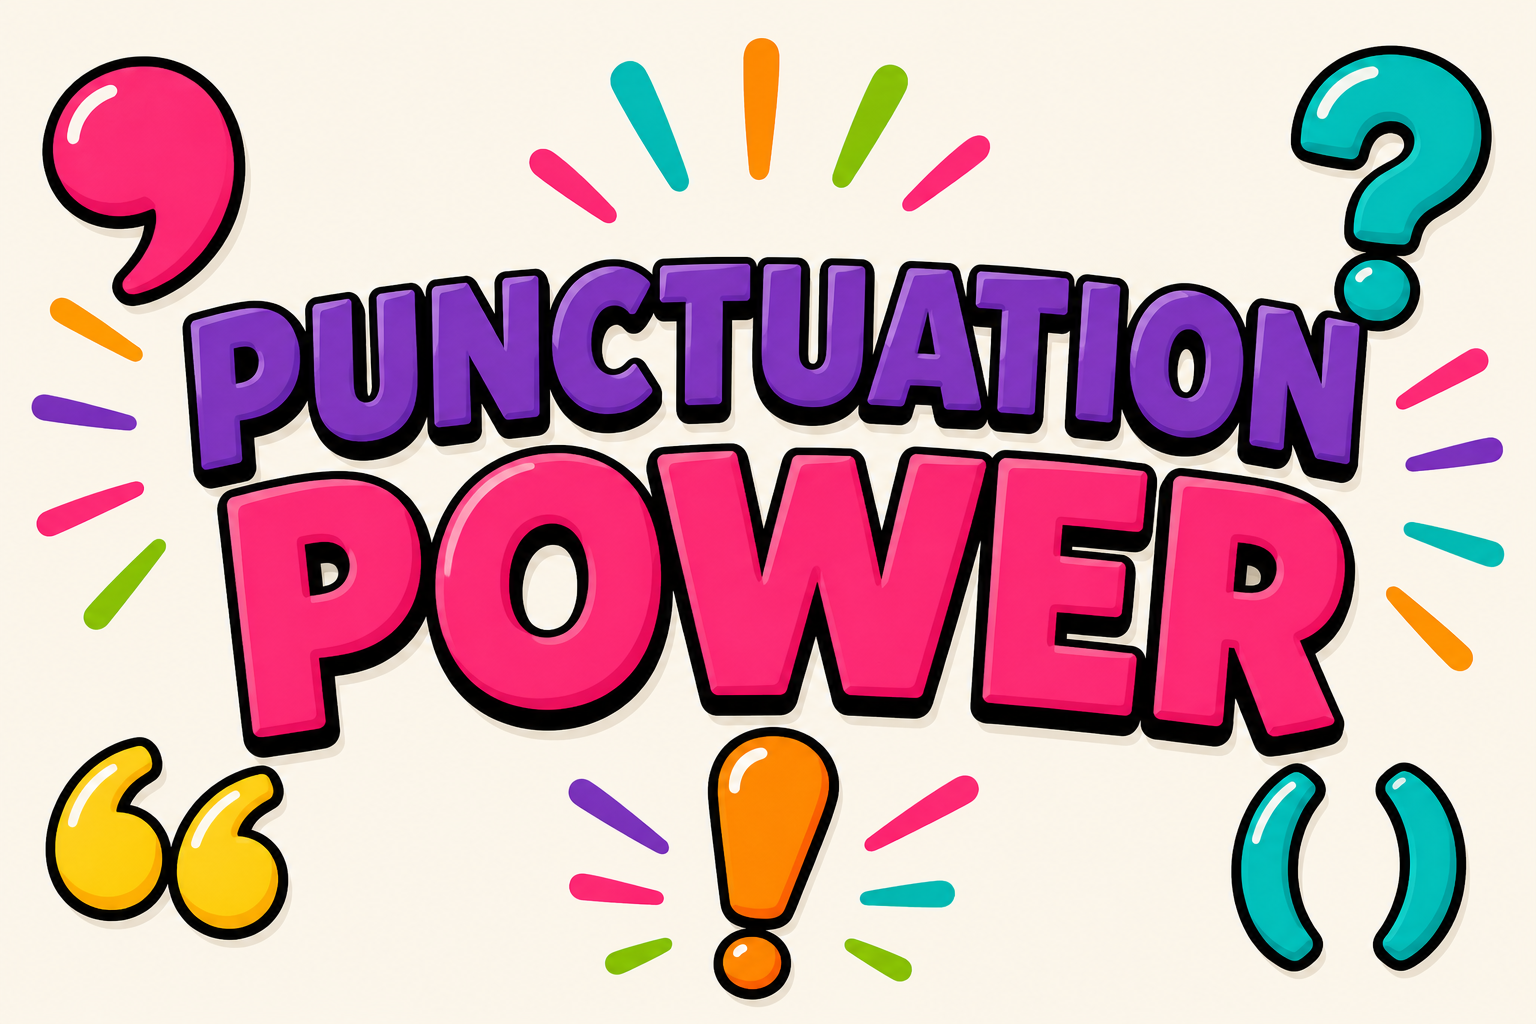
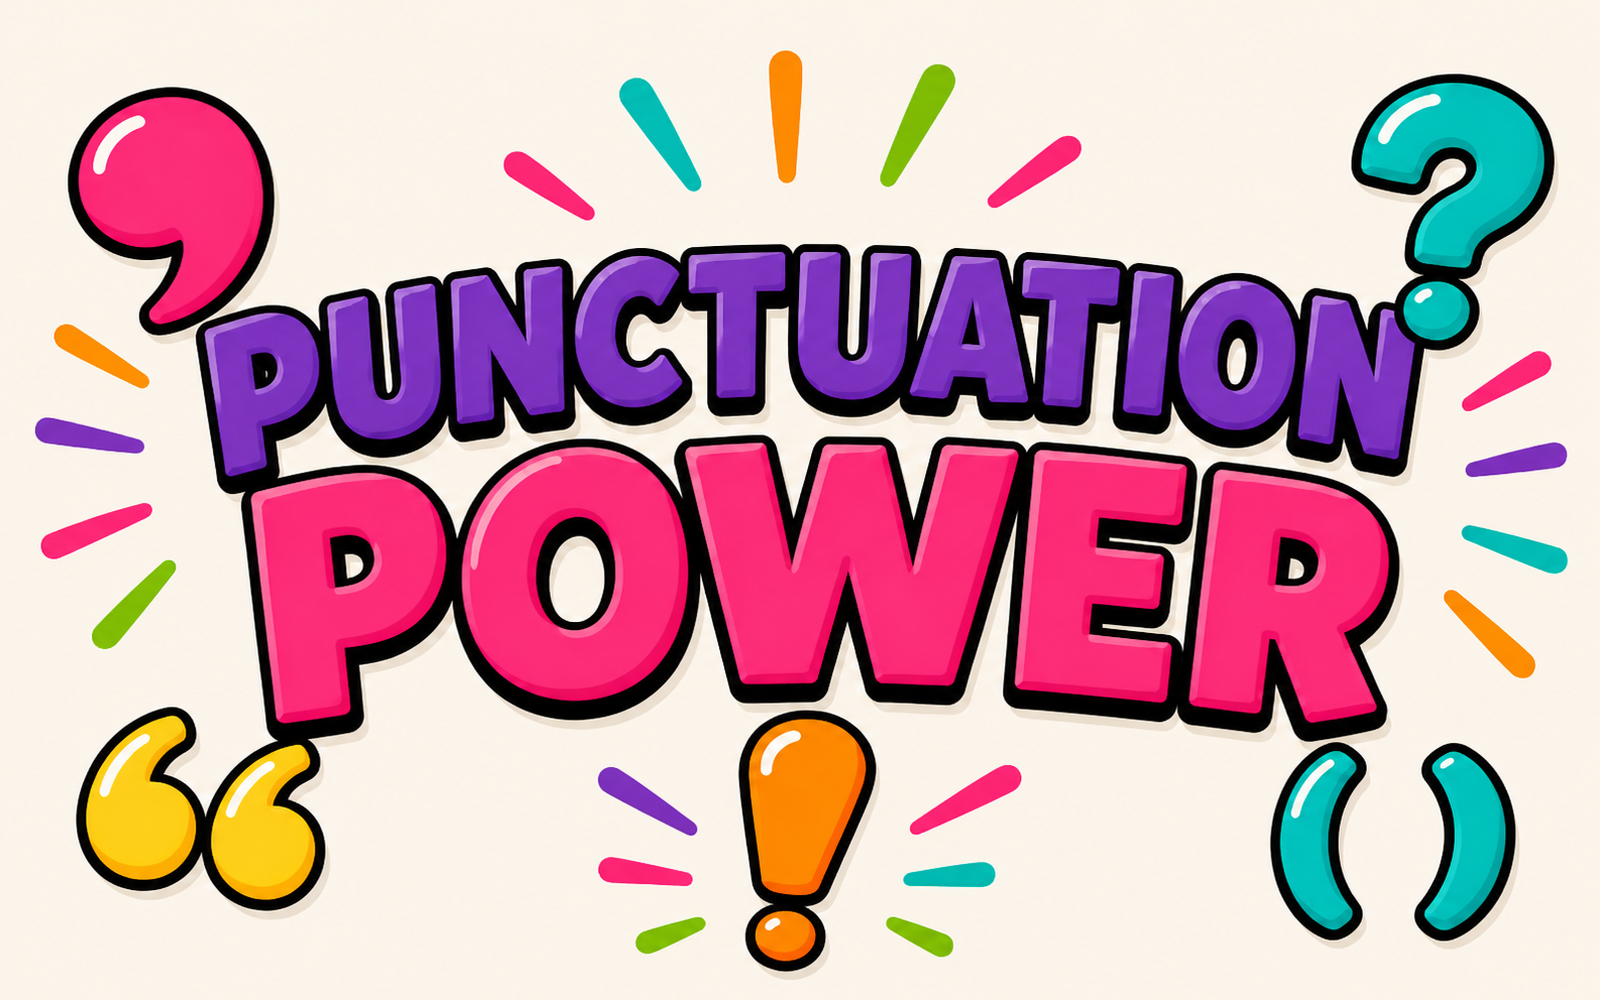
Update Punctuation Power card graphic (#64)

diff --git a/index.html b/index.html
@@ -563,7 +563,7 @@
 
         <a class="activity-card punctuation-power-card" href="punctuation-power/">
           <span class="activity-media punctuation-power-media full-bleed-media">
-            <img src="assets/punctuation-power-card.png" alt="Punctuation Power activity graphic with colorful punctuation marks and bright purple and pink lettering">
+            <img src="assets/punctuation-power-card.png?v=20260813" alt="Punctuation Power activity graphic with colorful punctuation marks and bright purple and pink lettering">
           </span>
           <span class="activity-copy">
             <span>
